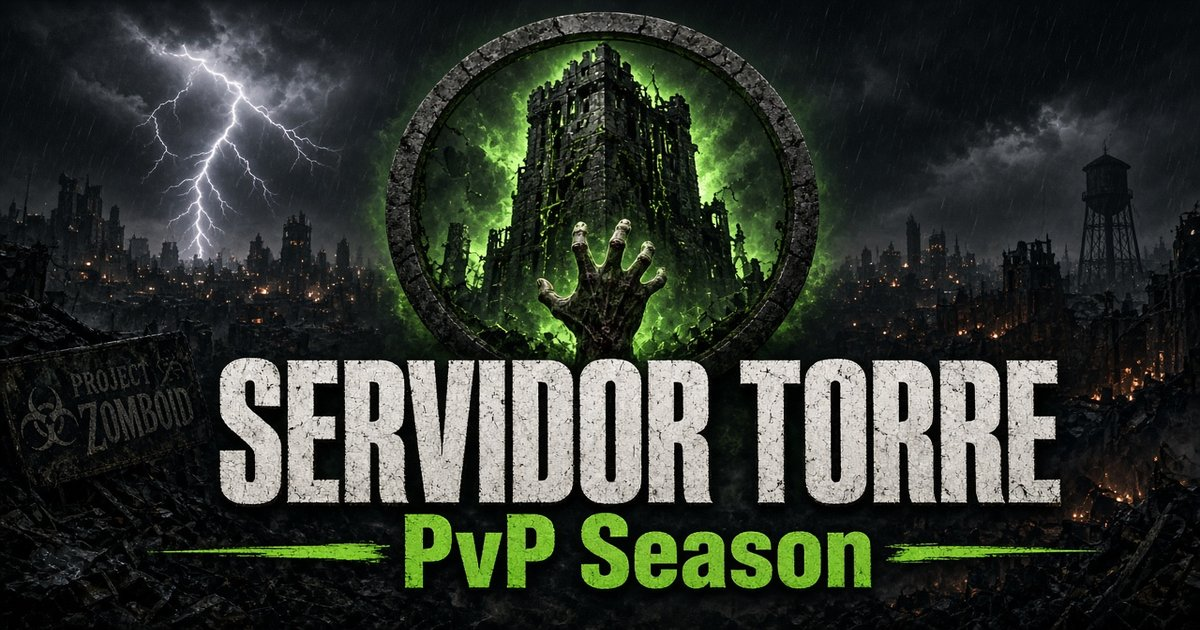
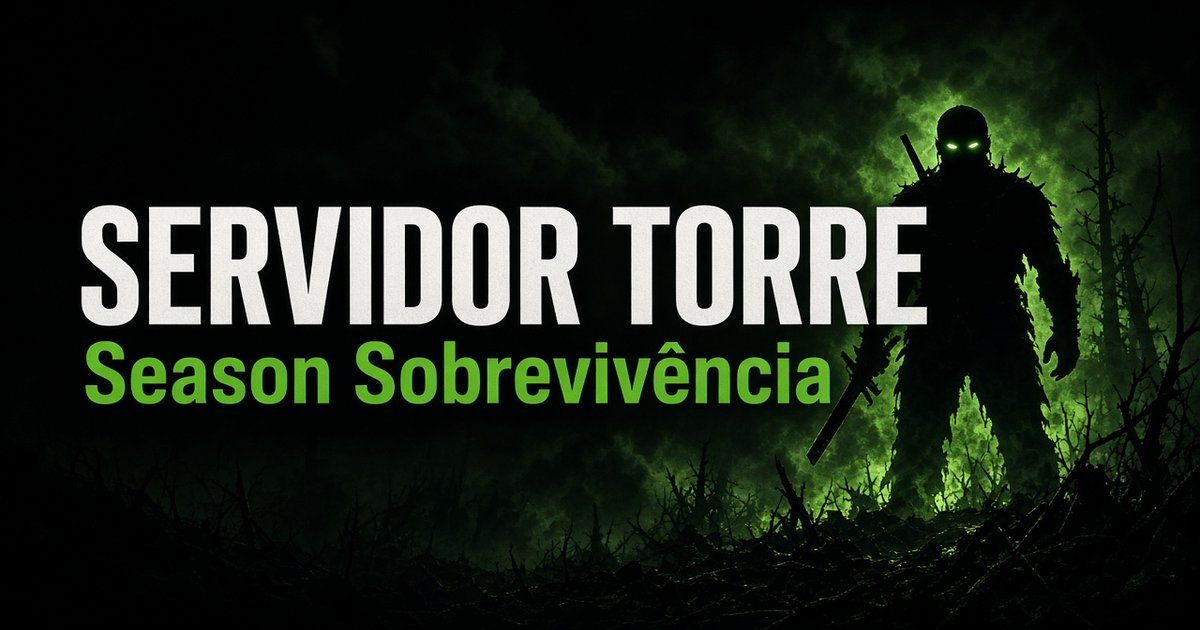
fix: atualizar metadados e imagem OG para season sobrevivência
Substitui banner com texto PvP, centraliza siteMeta e alinha Open Graph
com o tema PvE do servidor.

diff --git a/src/app/layout.tsx b/src/app/layout.tsx
@@ -1,6 +1,6 @@
 import type { Metadata } from "next";
 import { Orbitron, Rajdhani } from "next/font/google";
-import { siteConfig } from "@/data/server-config";
+import { siteConfig, siteMeta } from "@/data/server-config";
 import { absoluteUrl, siteUrl } from "@/lib/paths";
 import "./globals.css";
 
@@ -16,49 +16,39 @@ const rajdhani = Rajdhani({
   weight: ["400", "500", "600", "700"],
 });
 
-const ogTitle = `${siteConfig.name} — ${siteConfig.tagline}`;
-const ogDescription =
-  "Servidor brasileiro de Project Zomboid — Season Sobrevivência em Muldraugh, KY. 3x XP, 60+ mods, safehouses sagradas e hordas implacáveis.";
-
 const facebookAppId = siteConfig.facebookAppId.trim();
+const ogImageAlt = `${siteMeta.ogTitle} — Project Zomboid BR`;
 
 export const metadata: Metadata = {
   metadataBase: new URL(siteUrl),
-  title: `${ogTitle} | Project Zomboid`,
-  description: ogDescription,
+  title: siteMeta.title,
+  description: siteMeta.description,
+  applicationName: siteConfig.name,
   ...(facebookAppId
     ? { other: { "fb:app_id": facebookAppId } }
     : {}),
-  keywords: [
-    "Project Zomboid",
-    "servidor",
-    "sobrevivência",
-    "BR",
-    "Torre",
-    "zomboid",
-    "survival",
-  ],
+  keywords: [...siteMeta.keywords],
   openGraph: {
     type: "website",
     locale: "pt_BR",
     url: siteUrl,
     siteName: siteConfig.name,
-    title: ogTitle,
-    description: ogDescription,
+    title: siteMeta.ogTitle,
+    description: siteMeta.ogDescription,
     images: [
       {
         url: absoluteUrl("/images/og-image.jpg"),
         width: 1200,
         height: 630,
-        alt: `${siteConfig.name} — ${siteConfig.tagline}`,
+        alt: ogImageAlt,
         type: "image/jpeg",
       },
     ],
   },
   twitter: {
     card: "summary_large_image",
-    title: ogTitle,
-    description: ogDescription,
+    title: siteMeta.ogTitle,
+    description: siteMeta.ogDescription,
     images: [absoluteUrl("/images/og-image.jpg")],
   },
 };

diff --git a/src/data/server-config.ts b/src/data/server-config.ts
@@ -8,6 +8,26 @@ export const siteConfig = {
   facebookAppId: "",
 };
 
+export const siteMeta = {
+  title: `${siteConfig.name} — ${siteConfig.tagline} | Project Zomboid`,
+  description:
+    "Servidor BR de Project Zomboid focado em sobrevivência PvE — Muldraugh, KY. 3x XP, 60+ mods, safehouses e hordas. Cooperação, base e progressão.",
+  keywords: [
+    "Project Zomboid",
+    "servidor",
+    "sobrevivência",
+    "PvE",
+    "BR",
+    "Torre",
+    "zomboid",
+    "survival",
+    "coop",
+  ] as const,
+  ogTitle: `${siteConfig.name} — ${siteConfig.tagline}`,
+  ogDescription:
+    "Sobrevivência PvE em Muldraugh — 3x XP, 60+ mods, safehouses sagradas. Entre na Torre!",
+};
+
 export const stats = [
   { label: "Players Max", value: "10" },
   { label: "XP Global", value: "3.0x" },
